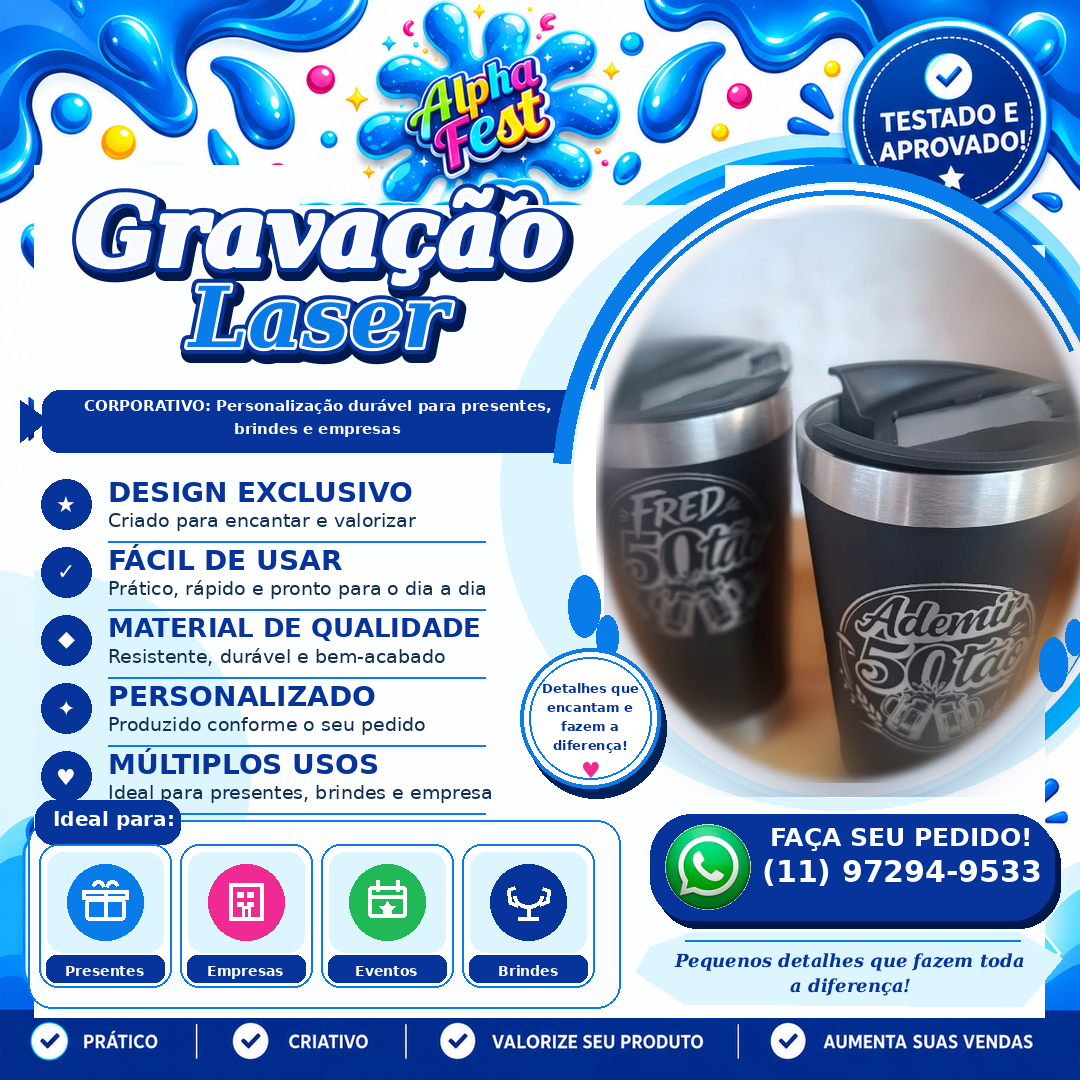
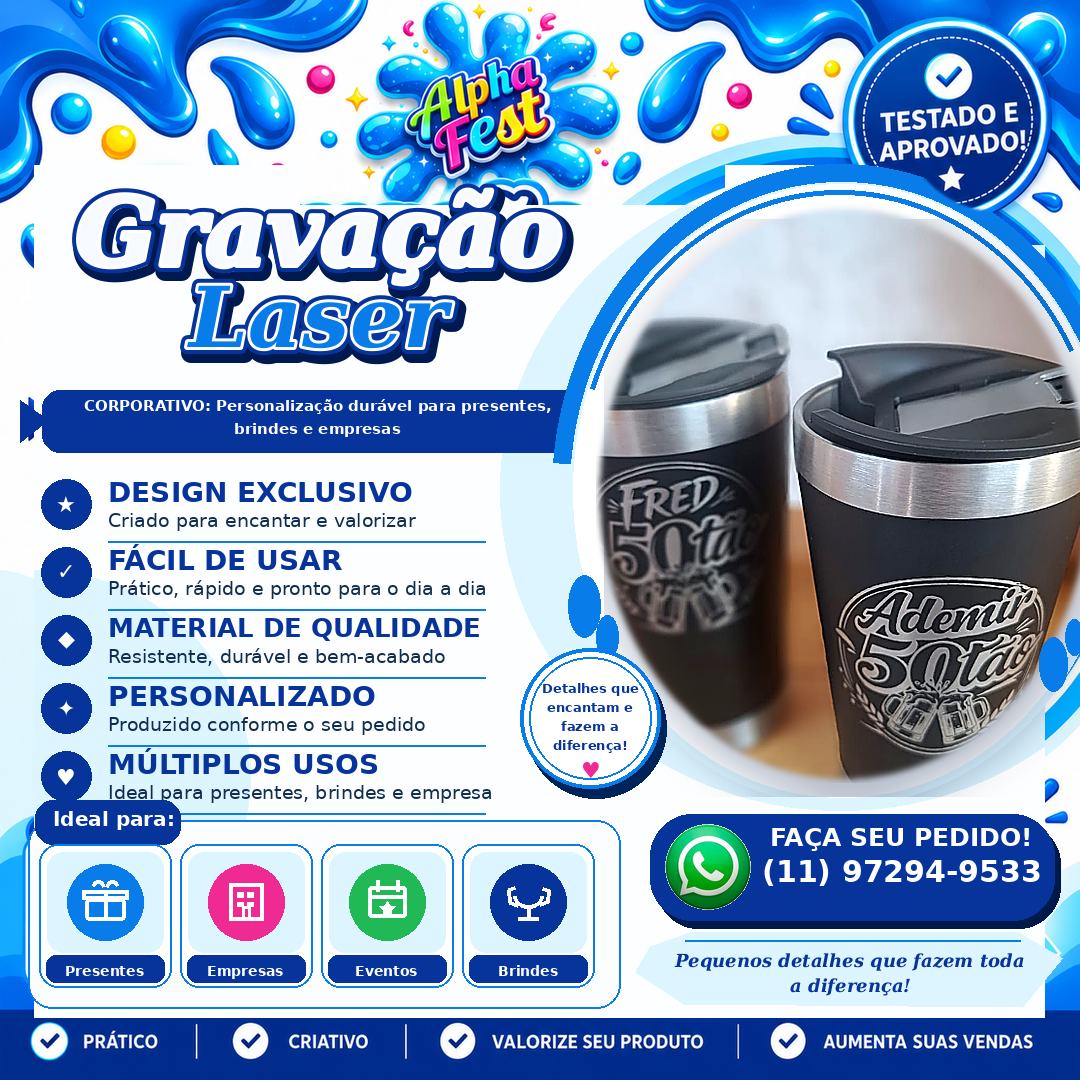
ATUAL20_4_9_I8_13_5_HF53_3_HF8_HF10

diff --git a/marketing_anna_renderer.py b/marketing_anna_renderer.py
@@ -1,6 +1,6 @@
 """Renderer independente do Template Anna — Prompt Premium.
 
-HF53.3-HF8-HF9: este módulo não reutiliza a composição visual do Template Mestre
+HF53.3-HF8-HF10: este módulo não reutiliza a composição visual do Template Mestre
 nem o compositor legado. Ele recebe somente dados já preparados pelo motor e
 constrói nativamente cada proporção do Template Anna.
 """
@@ -194,7 +194,7 @@ def _product_layer(image_bytes: bytes, box: tuple[int, int, int, int], photo_mod
         if spread < 34 and max(bg) > 145:
             prepared = _remove_simple_background(source)
         else:
-            # HF53.3-HF8-HF9: em fundo real/variável, não força GrabCut no modo auto.
+            # HF53.3-HF8-HF10: em fundo real/variável, não força GrabCut no modo auto.
             # O recorte automático anterior podia deixar mesa/fundo em polígonos irregulares.
             # O palco oval fotográfico é mais previsível e comercial. GrabCut fica disponível
             # somente quando o usuário pedir explicitamente para recortar/remover fundo.
@@ -208,7 +208,7 @@ def _product_layer(image_bytes: bytes, box: tuple[int, int, int, int], photo_mod
         prepared.thumbnail((maxw, maxh), Image.Resampling.LANCZOS)
         return prepared, (x1 + (maxw-prepared.width)//2, y1 + (maxh-prepared.height)//2)
 
-    # HF53.3-HF8-HF9: fallback fotográfico premium com recorte orgânico.
+    # HF53.3-HF8-HF10: fallback fotográfico premium com recorte orgânico.
     # Em vez do retângulo arredondado, a foto entra em um palco oval com bordas
     # suavizadas. Isso integra a imagem ao anúncio mesmo quando o recorte automático
     # do produto não é confiável.
@@ -219,7 +219,7 @@ def _product_layer(image_bytes: bytes, box: tuple[int, int, int, int], photo_mod
         rgb = ImageEnhance.Color(rgb).enhance(1.03)
     except Exception:
         pass
-    # HF53.3-HF8-HF9: zoom editorial conservador. A foto do catálogo costuma
+    # HF53.3-HF8-HF10: zoom editorial conservador. A foto do catálogo costuma
     # trazer bastante mesa/fundo; aproximamos o produto antes de encaixar no palco.
     zw, zh = rgb.size
     zoom = 1.18
@@ -238,44 +238,37 @@ def _product_layer(image_bytes: bytes, box: tuple[int, int, int, int], photo_mod
     return fitted, (x1, y1)
 
 def _product_stage_photo(image_bytes: bytes, size: tuple[int, int]) -> Image.Image:
-    """Cena fotográfica integrada: fundo desfocado + produto nítido no centro.
+    """HF10 — palco fotográfico nítido, sem efeito embaçado.
 
-    Evita o retângulo duro da foto sem depender de um recorte perfeito. O mesmo
-    enquadramento alimenta fundo e primeiro plano; as bordas ficam naturalmente
-    dissolvidas dentro do palco oval.
+    Mantém a fotografia original o mais nítida possível, aproxima o produto e
+    aplica somente máscara oval suave nas bordas. Não desfoca o miolo nem o
+    fundo da própria foto, evitando a sensação de imagem esfumaçada.
     """
     source = Image.open(io.BytesIO(image_bytes)).convert("RGB")
     W, H = size
-    # Zoom editorial para reduzir parede/mesa sobrando e valorizar o produto.
     sw, sh = source.size
-    zoom = 1.24
+    # aproxima o produto, reduzindo parede/mesa excedente sem cortar as tampas
+    zoom = 1.30
     cw, ch = max(32, int(sw / zoom)), max(32, int(sh / zoom))
-    cx, cy = sw * .50, sh * .43
+    cx, cy = sw * .50, sh * .44
     left = max(0, min(sw-cw, int(cx-cw/2)))
     top = max(0, min(sh-ch, int(cy-ch/2)))
     crop = source.crop((left, top, left+cw, top+ch))
-    sharp = ImageOps.fit(crop, (W, H), Image.Resampling.LANCZOS, centering=(.5, .44))
+    sharp = ImageOps.fit(crop, (W, H), Image.Resampling.LANCZOS, centering=(.5, .45))
     try:
-        sharp = ImageEnhance.Contrast(sharp).enhance(1.07)
-        sharp = ImageEnhance.Sharpness(sharp).enhance(1.28)
-        sharp = ImageEnhance.Color(sharp).enhance(1.03)
+        sharp = ImageEnhance.Contrast(sharp).enhance(1.09)
+        sharp = ImageEnhance.Sharpness(sharp).enhance(1.60)
+        sharp = sharp.filter(ImageFilter.UnsharpMask(radius=1.25, percent=145, threshold=2))
+        sharp = ImageEnhance.Color(sharp).enhance(1.02)
     except Exception:
         pass
-    blurred = sharp.filter(ImageFilter.GaussianBlur(max(14, min(W,H)//26)))
-    # Máscara radial suave: produto permanece nítido no miolo e o fundo dissolve.
-    mask = Image.new("L", (W,H), 0)
-    md = ImageDraw.Draw(mask)
-    inset_x, inset_y = int(W*.08), int(H*.055)
-    md.ellipse((inset_x, inset_y, W-inset_x, H-inset_y), fill=255)
-    mask = mask.filter(ImageFilter.GaussianBlur(max(16, min(W,H)//18)))
-    scene = blurred.convert("RGBA")
-    crisp = sharp.convert("RGBA")
-    scene = Image.composite(crisp, scene, mask)
-    # Palco inteiro também recebe máscara oval firme, eliminando qualquer canto.
+    scene = sharp.convert("RGBA")
+    # Só a borda recebe dissolução leve. O conteúdo inteiro permanece nítido.
     outer = Image.new("L", (W,H), 0)
     od = ImageDraw.Draw(outer)
-    od.ellipse((2,2,W-3,H-3), fill=255)
-    outer = outer.filter(ImageFilter.GaussianBlur(max(3, min(W,H)//110)))
+    inset = max(2, min(W,H)//120)
+    od.ellipse((inset, inset, W-inset-1, H-inset-1), fill=255)
+    outer = outer.filter(ImageFilter.GaussianBlur(max(2, min(W,H)//150)))
     scene.putalpha(outer)
     return scene
 
@@ -305,7 +298,7 @@ def _theme_key(label: str) -> str:
 def _draw_theme_icon(draw: ImageDraw.ImageDraw, cx: int, cy: int, r: int, label: str, fill, dark, white=(255,255,255,255)):
     """Ícone vetorial semântico para os cards `Ideal para`.
 
-    HF53.3-HF8-HF9: a faixa inferior deixa de repetir miniaturas do produto.
+    HF53.3-HF8-HF10: a faixa inferior deixa de repetir miniaturas do produto.
     Cada card usa um pictograma coerente com o próprio rótulo, mantendo o
     visual de propaganda e leitura imediata em celular.
     """
@@ -415,7 +408,7 @@ def _draw_theme_icon(draw: ImageDraw.ImageDraw, cx: int, cy: int, r: int, label:
 
 
 def _draw_splash(draw: ImageDraw.ImageDraw, W: int, H: int, blue, dark, pink, yellow):
-    # HF53.3-HF8-HF9: manchas superiores orgânicas, mais próximas de um splash líquido.
+    # HF53.3-HF8-HF10: manchas superiores orgânicas, mais próximas de um splash líquido.
     # Sai a meia-lua geométrica limpa do HF5; entram volumes irregulares, lóbulos e gotas.
     def blob(cx, cy, rx, ry, color, lobes):
         draw.ellipse((cx-rx, cy-ry, cx+rx, cy+ry), fill=color)
@@ -442,12 +435,46 @@ def _draw_splash(draw: ImageDraw.ImageDraw, W: int, H: int, blue, dark, pink, ye
         if r>=7:
             draw.ellipse((cx-r//3,cy-r//2,cx+r//5,cy-r//6),fill=(255,255,255,150))
 
+def _approval_seal_overlay(skin: Image.Image | None, size: tuple[int, int]) -> Image.Image | None:
+    """Recorta o selo aprovado da skin e o devolve com máscara circular.
+
+    É aplicado no final do renderer para ficar sempre no topo de todas as
+    camadas, sem gerar um segundo selo em posição diferente.
+    """
+    if skin is None:
+        return None
+    try:
+        base = skin.resize(size, Image.Resampling.LANCZOS)
+        W, H = size
+        # região do único selo oficial no canto superior direito
+        box = (int(W*.80), 0, W, int(H*.25))
+        crop = base.crop(box).convert("RGBA")
+        mask = Image.new("L", crop.size, 0)
+        md = ImageDraw.Draw(mask)
+        # círculo amplo suficiente para manter borda/sombra do selo, sem trazer
+        # a faixa/splash adjacente para cima do produto.
+        cx, cy = int(crop.width*.61), int(crop.height*.44)
+        r = int(min(crop.width, crop.height)*.43)
+        md.ellipse((cx-r, cy-r, cx+r, cy+r), fill=255)
+        mask = mask.filter(ImageFilter.GaussianBlur(1.2))
+        alpha = crop.getchannel("A")
+        try:
+            from PIL import ImageChops
+            alpha = ImageChops.multiply(alpha, mask)
+        except Exception:
+            pass
+        crop.putalpha(alpha)
+        return crop
+    except Exception:
+        return None
+
+
 def _draw_square(
     image_bytes: bytes, *, title: str, subtitle: str, description: str, phone: str,
     profile: dict[str, Any], palette: dict[str, str], base_dir: Path, photo_mode: str,
     application_images: list[bytes] | None,
 ) -> Image.Image:
-    """HF53.3-HF8-HF9 — Skin Mestre Anna 1.
+    """HF53.3-HF8-HF10 — Skin Mestre Anna 1.
 
     Fecha o primeiro modelo aprovado: preserva como skin os elementos gráficos fixos
     de alta fidelidade e desenha somente conteúdo dinâmico nas áreas reservadas.
@@ -591,7 +618,7 @@ def _draw_square(
         yy += 19
     draw.text((cx-9, cy+cr-31), "♥", font=_font(22,bold=True), fill=pink)
 
-    # Vitrine "Ideal para" — HF53.3-HF8-HF9: mantém SOMENTE ícones temáticos aprovados.
+    # Vitrine "Ideal para" — HF53.3-HF8-HF10: mantém SOMENTE ícones temáticos aprovados.
     # NÃO repete miniatura do produto.
     apps = list(profile.get("applications") or ["Presentes", "Empresas", "Eventos", "Brindes"])[:4]
     while len(apps) < 4:
@@ -665,6 +692,12 @@ def _draw_square(
             draw.text((i*cell+26,1037), "✓", font=_font(18,bold=True), fill=dark)
             ff = _fit(draw,label,cell-68,18,13,bold=True)
             draw.text((i*cell+58,1042),label,font=ff,fill=white)
+
+    # HF10: o selo oficial é a última camada. Assim nunca fica atrás da foto,
+    # do arco do palco ou de qualquer outro elemento.
+    seal = _approval_seal_overlay(skin, (W, H))
+    if seal is not None:
+        canvas.alpha_composite(seal, (int(W*.80), 0))
     return canvas
 
 def _adapt_square(square: Image.Image, size: tuple[int,int], palette: dict[str,str]) -> Image.Image:

diff --git a/app.py b/app.py
@@ -7077,7 +7077,7 @@ CANAL_MIDIA_CONFIG = {
 def _marketing_effective_size(canal, template_id=""):
     """Tamanho final por template sem alterar o Mestre homologado.
 
-    HF53.3-HF8-HF9: o prompt aprovado da Anna é quadrado no Feed. O Mestre
+    HF53.3-HF8-HF10: o prompt aprovado da Anna é quadrado no Feed. O Mestre
     Comercial continua 1080x1350 e todos os demais templates seguem a tabela global.
     """
     base = CANAL_MIDIA_CONFIG.get(canal, CANAL_MIDIA_CONFIG["Instagram Feed"])["size"]
@@ -26476,7 +26476,7 @@ if pagina_atual == "crescimento":
     # HF53.3 — Biblioteca de Templates: mestre HF7 congelado + seleção segura no Piloto Automático.
     with st.container(border=True):
         af_section_title("⚡ Piloto Automático de Conteúdo", "Designer Comercial AlphaFest: produto, copy, layout por canal e revisão automática antes de salvar.")
-        st.caption("HF53.3-HF8-HF9: Template Anna — Redes Sociais • Skin Mestre 1 • Em validação final no Manager: primeiro modelo aprovado convertido em skin gráfica, com conteúdo dinâmico e Mestre HF7 intacto.")
+        st.caption("HF53.3-HF8-HF10: Template Anna — Redes Sociais • Skin Mestre 1 • Em validação final no Manager: primeiro modelo aprovado convertido em skin gráfica, com conteúdo dinâmico e Mestre HF7 intacto.")
         try:
             _mkt_metrics = _site_metrics_summary() if _site_metrics_tracking_available() else {}
         except Exception:
@@ -26706,7 +26706,7 @@ if pagina_atual == "crescimento":
                             "categoria": str(_mkt_product.get("Categoria") or ""),
                             "campanha": _mkt_campaign.strip() or "Permanente",
                             "objetivo": _mkt_objective,
-                            "origem_criativa": "Designer Comercial AlphaFest HF53.3-HF8-HF9",
+                            "origem_criativa": "Designer Comercial AlphaFest HF53.3-HF8-HF10",
                             "tipo_registro": "campanha_automatica",
                             "canais": list(_mkt_channels),
                             "artes_png": _mkt_arts,
@@ -26726,7 +26726,7 @@ if pagina_atual == "crescimento":
                             "quality_gate": "APROVADO AUTOMATICAMENTE",
                             "paleta_nome": _mkt_palette_name,
                             "paleta_visual": dict(_mkt_palette),
-                            "designer_rules_version": "HF53.3-HF8-HF9",
+                            "designer_rules_version": "HF53.3-HF8-HF10",
                         }
                         conteudos.insert(0, _mkt_record)
                         marketing["conteudos"] = conteudos
@@ -28358,7 +28358,7 @@ if pagina_atual == "crescimento":
                     except Exception as exc:
                         st.error(f"Não foi possível instalar o template: {exc}")
 
-            st.info("HF53.3-HF8-HF9: o Mestre HF7 permanece oficial e congelado. O Template Anna Skin Mestre 1 está em validação final para Feed, Story, Facebook e Status.")
+            st.info("HF53.3-HF8-HF10: o Mestre HF7 permanece oficial e congelado. O Template Anna Skin Mestre 1 está em validação final para Feed, Story, Facebook e Status.")
             st.markdown("---")
             st.subheader("🖼 Banco de mídia AlphaFest")
             st.caption("Fotos e vídeos continuam ligados às campanhas e ao catálogo existente.")

diff --git a/marketing_template_engine.py b/marketing_template_engine.py
@@ -24,7 +24,7 @@ DEFAULT_TEMPLATE = "anna_base_dinamica"
 EMBEDDED_DEFAULT_TEMPLATE = "splash_premium_anna"
 
 ANNA_PROMPT_SPEC: dict[str, Any] = {
-    "versao": "HF53.3-HF8-HF9",
+    "versao": "HF53.3-HF8-HF10",
     "nome": "Anna Prompt Premium",
     "layout_fixo": [
         "logo", "titulo", "faixa", "beneficios", "produto", "selo_central",
@@ -69,10 +69,10 @@ EMBEDDED_TEMPLATES: dict[str, dict[str, Any]] = {
     "anna_social_redes": {
         "id": "anna_social_redes",
         "nome": "Template Anna — Redes Sociais",
-        "descricao": "Template Anna — Skin Mestre 1 HF8-HF8: primeiro modelo visual aprovado fechado como skin gráfica. Topo/splash/logo/selo e rodapé preservados em alta fidelidade; título, produto, benefícios, Ideal para e CTA permanecem dinâmicos. Mestre HF7 permanece congelado.",
+        "descricao": "Template Anna — Modelo 1 HF8-HF10: acabamento final aprovado. Título dinâmico em serif itálica com contorno multicamada e fundo transparente; foto do produto nítida no palco oval; selo oficial sempre na camada superior; Ideal para mantém cards com fundo e ícones temáticos; Mestre HF7 permanece congelado.",
         "categoria_template": "Redes Sociais",
         "status_template": "Em validação",
-        "versao_template": "HF53.3-HF8-HF9",
+        "versao_template": "HF53.3-HF8-HF10",
         "oficial": False,
         "protegido": True,
         "autopilot_aprovado": True,
@@ -1672,7 +1672,7 @@ def render_template(
         )
         final=_adapt_master_portrait_to_channel(portrait,size,cfg,palette_override)
     elif str(cfg.get("id")) == "anna_social_redes" and str(cfg.get("source")) != "library":
-        # HF53.3-HF8-HF9: renderer Anna independente com acabamento visual aprovado para validação no Manager. Não reutiliza o compositor
+        # HF53.3-HF8-HF10: renderer Anna independente com acabamento visual aprovado para validação no Manager. Não reutiliza o compositor
         # visual antigo nem o Template Mestre. O perfil textual continua vindo da mesma fonte
         # de dados, mas toda a composição é construída em marketing_anna_renderer.py.
         _profile = _product_profile(title, description, subtitle)

diff --git a/tests/test_hf53_3_hf8_hf10_anna_acabamento_final.py b/tests/test_hf53_3_hf8_hf10_anna_acabamento_final.py
@@ -1,0 +1,44 @@
+from io import BytesIO
+from pathlib import Path
+from PIL import Image, ImageDraw
+import marketing_template_engine as engine
+
+
+def _sample():
+    im = Image.new('RGB', (665, 880), (226, 232, 238))
+    d = ImageDraw.Draw(im)
+    d.rectangle((0, 420, 665, 880), fill=(188, 136, 91))
+    d.rounded_rectangle((65, 175, 300, 740), radius=45, fill=(30, 31, 34))
+    d.rounded_rectangle((285, 150, 610, 785), radius=55, fill=(25, 26, 29))
+    out = BytesIO(); im.save(out, 'PNG'); return out.getvalue()
+
+
+def test_hf10_version_and_master_still_frozen():
+    assert Path('VERSAO.txt').read_text(encoding='utf-8').strip() == '20.4.9-I8.13.5-HF53.3-HF8-HF10'
+    anna = next(x for x in engine.listar_templates() if x['id'] == 'anna_social_redes')
+    master = next(x for x in engine.listar_templates() if x['id'] == 'splash_premium_anna')
+    assert anna['versao_template'] == 'HF53.3-HF8-HF10'
+    assert master['versao_template'] == 'HF53.2-HF5-HF7'
+    assert master['oficial'] and master['protegido']
+
+
+def test_hf10_contract_title_photo_seal_and_cards():
+    src = Path('marketing_anna_renderer.py').read_text(encoding='utf-8')
+    assert 'palco fotográfico nítido, sem efeito embaçado' in src
+    assert 'ImageFilter.UnsharpMask' in src
+    assert 'o selo oficial é a última camada' in src
+    assert '_approval_seal_overlay' in src
+    assert 'serif=True, italic=True' in src
+    assert 'fill=white, outline=' in src  # cards Ideal para continuam com fundo
+
+
+def test_hf10_feed_render():
+    data = engine.render_template(
+        _sample(), (1080,1080), template_id='anna_social_redes', title='GRAVAÇÃO LASER',
+        subtitle='CORPORATIVO: Personalização durável para presentes, brindes e empresas',
+        description='Personalização premium em copos e brindes.',
+        phone='(11) 97294-9533', photo_mode='auto'
+    )
+    im = Image.open(BytesIO(data))
+    assert im.size == (1080,1080)
+    assert len(data) > 50000

diff --git a/UPDATE_INFO_20_4_9_I8_13_5_HF53_3_HF8_HF10.md b/UPDATE_INFO_20_4_9_I8_13_5_HF53_3_HF8_HF10.md
@@ -1,0 +1,9 @@
+# HF53.3-HF8-HF10 — Template Anna • Acabamento Final Modelo 1
+
+- Parte diretamente do HF53.3-HF8-HF9 enviado pelo usuário.
+- Mantém o tipo de letra anterior do título (serif itálica) e acrescenta contorno multicamada para destaque, sem caixa/fundo próprio atrás do texto.
+- Produto no palco oval agora permanece nítido: removido o desfoque fotográfico do HF9 e aplicado apenas recorte oval suave nas bordas.
+- O selo único `TESTADO E APROVADO!` é reaplicado como última camada e fica sempre sobre todas as imagens.
+- `Ideal para` mantém os cards com fundo e os ícones temáticos já aprovados.
+- WhatsApp clássico, CTA, splash, benefícios, faixa emocional e rodapé permanecem no padrão aprovado.
+- Template Mestre Comercial HF53.2-HF5-HF7 permanece protegido e sem alteração de renderer.
